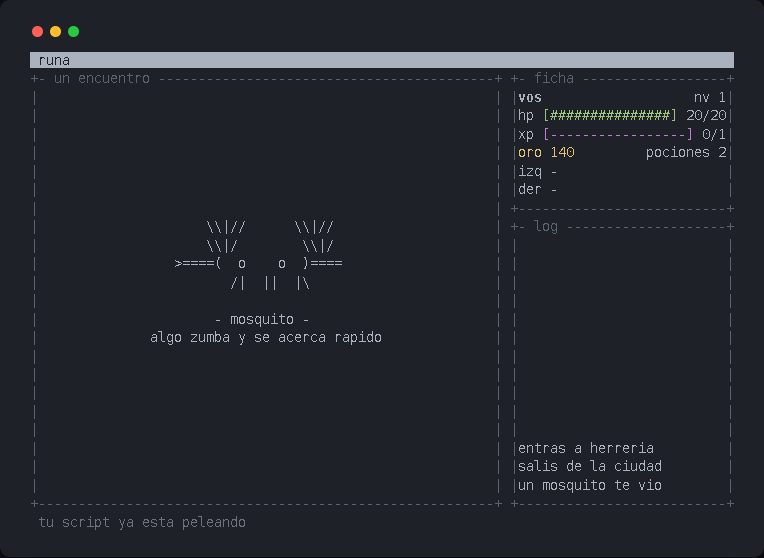
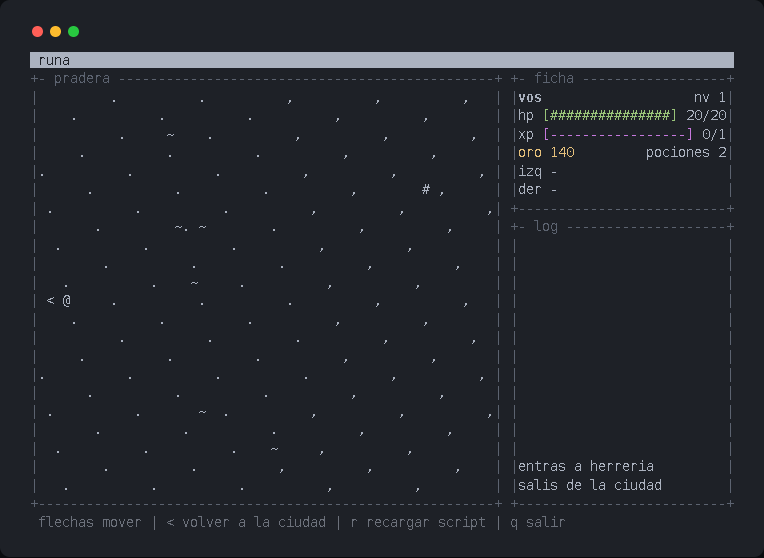
fix(campo): el campo se dibujaba como una sola linea y sin heroe
field.render() devuelve una fila por string y compose() espera un string
solo. Al pasarle el array, box() lo convertia con String(), las 22 filas
quedaban unidas por comas en un unico renglon, y el panel mostraba una
franja de pasto con el heroe en ninguna parte. No tiraba ninguna
excepcion y los 33 tests seguian en verde, asi que el campo estuvo roto
en silencio desde que existe.

Aparte el ancho: mapPane divide por CELL_W adentro y despues pinta cada
tile con ese ancho. El campo pinta una columna por celda, porque Y_SCALE
ya paga la relacion 1:2 de una celda de terminal en las distancias.
Dividir tambien aca metia el mundo a media escala en media caja.

Va con un test que mira el frame ya pintado, que es lo unico que podia
agarrar esto: verifica que el pasto cubra varias filas, que el heroe
aparezca, y que el dibujo llegue hasta el borde derecho del panel. Da
rojo contra el codigo viejo, comprobado.

La captura campo.png del README se rehizo. Antes salia repetida con la
del encuentro porque el script de capturas la tomaba en un paso fijo que
la pelea siempre se adelantaba, y caia en un fallback que fotografiaba
lo que hubiera en pantalla.

diff --git a/test/index.js b/test/index.js
@@ -49,3 +49,53 @@ test('city art remains rectangular and walkable', (t) => {
   t.is(TILES[';'].solid, false)
   t.is(TILES.O.solid, true)
 })
+
+test('the field pane paints the whole field, not one stringified line', (t) => {
+  const game = new Runa()
+  game.update({ type: 'resize', width: 88, height: 26 })
+  game.onKey({ type: 'key', is: (...keys) => keys.includes('x') })
+
+  // Find the gate the map itself declares. Hardcoding its coordinates would let
+  // somebody move the gate and quietly turn this test into a no-op.
+  let gate = null
+  const rows = MAPS.city.rows
+  for (let y = 0; y < rows.length && gate === null; y++) {
+    for (let x = 0; x < rows[y].length; x++) {
+      const tile = TILES[rows[y][x]]
+      if (tile && tile.enter && tile.enter.kind === 'travel') {
+        gate = { x, y }
+        break
+      }
+    }
+  }
+  t.ok(gate !== null, 'the city has a gate out to the field')
+
+  game.walker.placeAt('city', gate.x, gate.y)
+  game.onKey({ type: 'key', is: (...keys) => keys.includes('e') })
+  t.ok(game.field !== null, 'stepping through the gate opens the field')
+
+  const lines = style.stripAnsi(game.view()).split('\n')
+  const pane = lines.map((line) => line.slice(1, 58))
+  const painted = pane.filter((line) => /[.,~#@<]/.test(line))
+
+  // The bug this guards against, in full, because it cost a demo:
+  //
+  // field.render() hands back one string per row and compose() wants a single
+  // string. Passing the array through meant box() stringified it, all 22 rows
+  // were joined by commas into one line, and the pane showed a single stripe of
+  // terrain with the hero nowhere on it. Nothing threw and every other test
+  // stayed green, so only an assertion about the painted frame can see it.
+  t.ok(painted.length > 10, 'terrain covers the pane rather than a single row')
+  t.ok(
+    lines.some((line) => line.includes('@')),
+    'the hero is somewhere on screen'
+  )
+
+  // And the field is drawn at full width. Dividing the pane by CELL_W as well
+  // as letting the field paint one column per cell squeezed the world into the
+  // left half of the box, which reads as a rendering glitch rather than a bug.
+  t.ok(
+    painted.some((line) => /[.,~#]/.test(line.slice(40))),
+    'the field reaches the right hand side of the pane'
+  )
+})

diff --git a/lib/game.js b/lib/game.js
@@ -762,7 +762,22 @@ class Runa {
         height: this.height,
         title: 'runa',
         mainCaption: snap.zone || 'el campo',
-        main: (w, h) => this.field.render(Math.floor(w / render.CELL_W), h),
+        // Two things this line has to get right, both of which it used to get
+        // wrong and neither of which crashed.
+        //
+        // render() hands back one string per row and compose() wants a single
+        // string. Passing the array straight through meant box() stringified
+        // it, the rows were joined by commas into one line, and the pane showed
+        // a single stripe of terrain with the hero nowhere on it. Nothing
+        // threw. The field was simply invisible, which is exactly the kind of
+        // bug that survives all the way into a demo.
+        //
+        // And the width is the whole pane, not the pane divided by CELL_W.
+        // mapPane does that division itself and then paints each tile that many
+        // columns wide; the field paints one column per cell, because Y_SCALE
+        // already pays for the 1:2 aspect of a terminal cell in the distance
+        // maths. Dividing here too drew the world at half scale into half a box.
+        main: (w, h) => this.field.render(w, h).join('\n'),
         stats: base.stats,
         log: base.log,
         footer: 'flechas mover | < volver a la ciudad | r recargar script | q salir'
